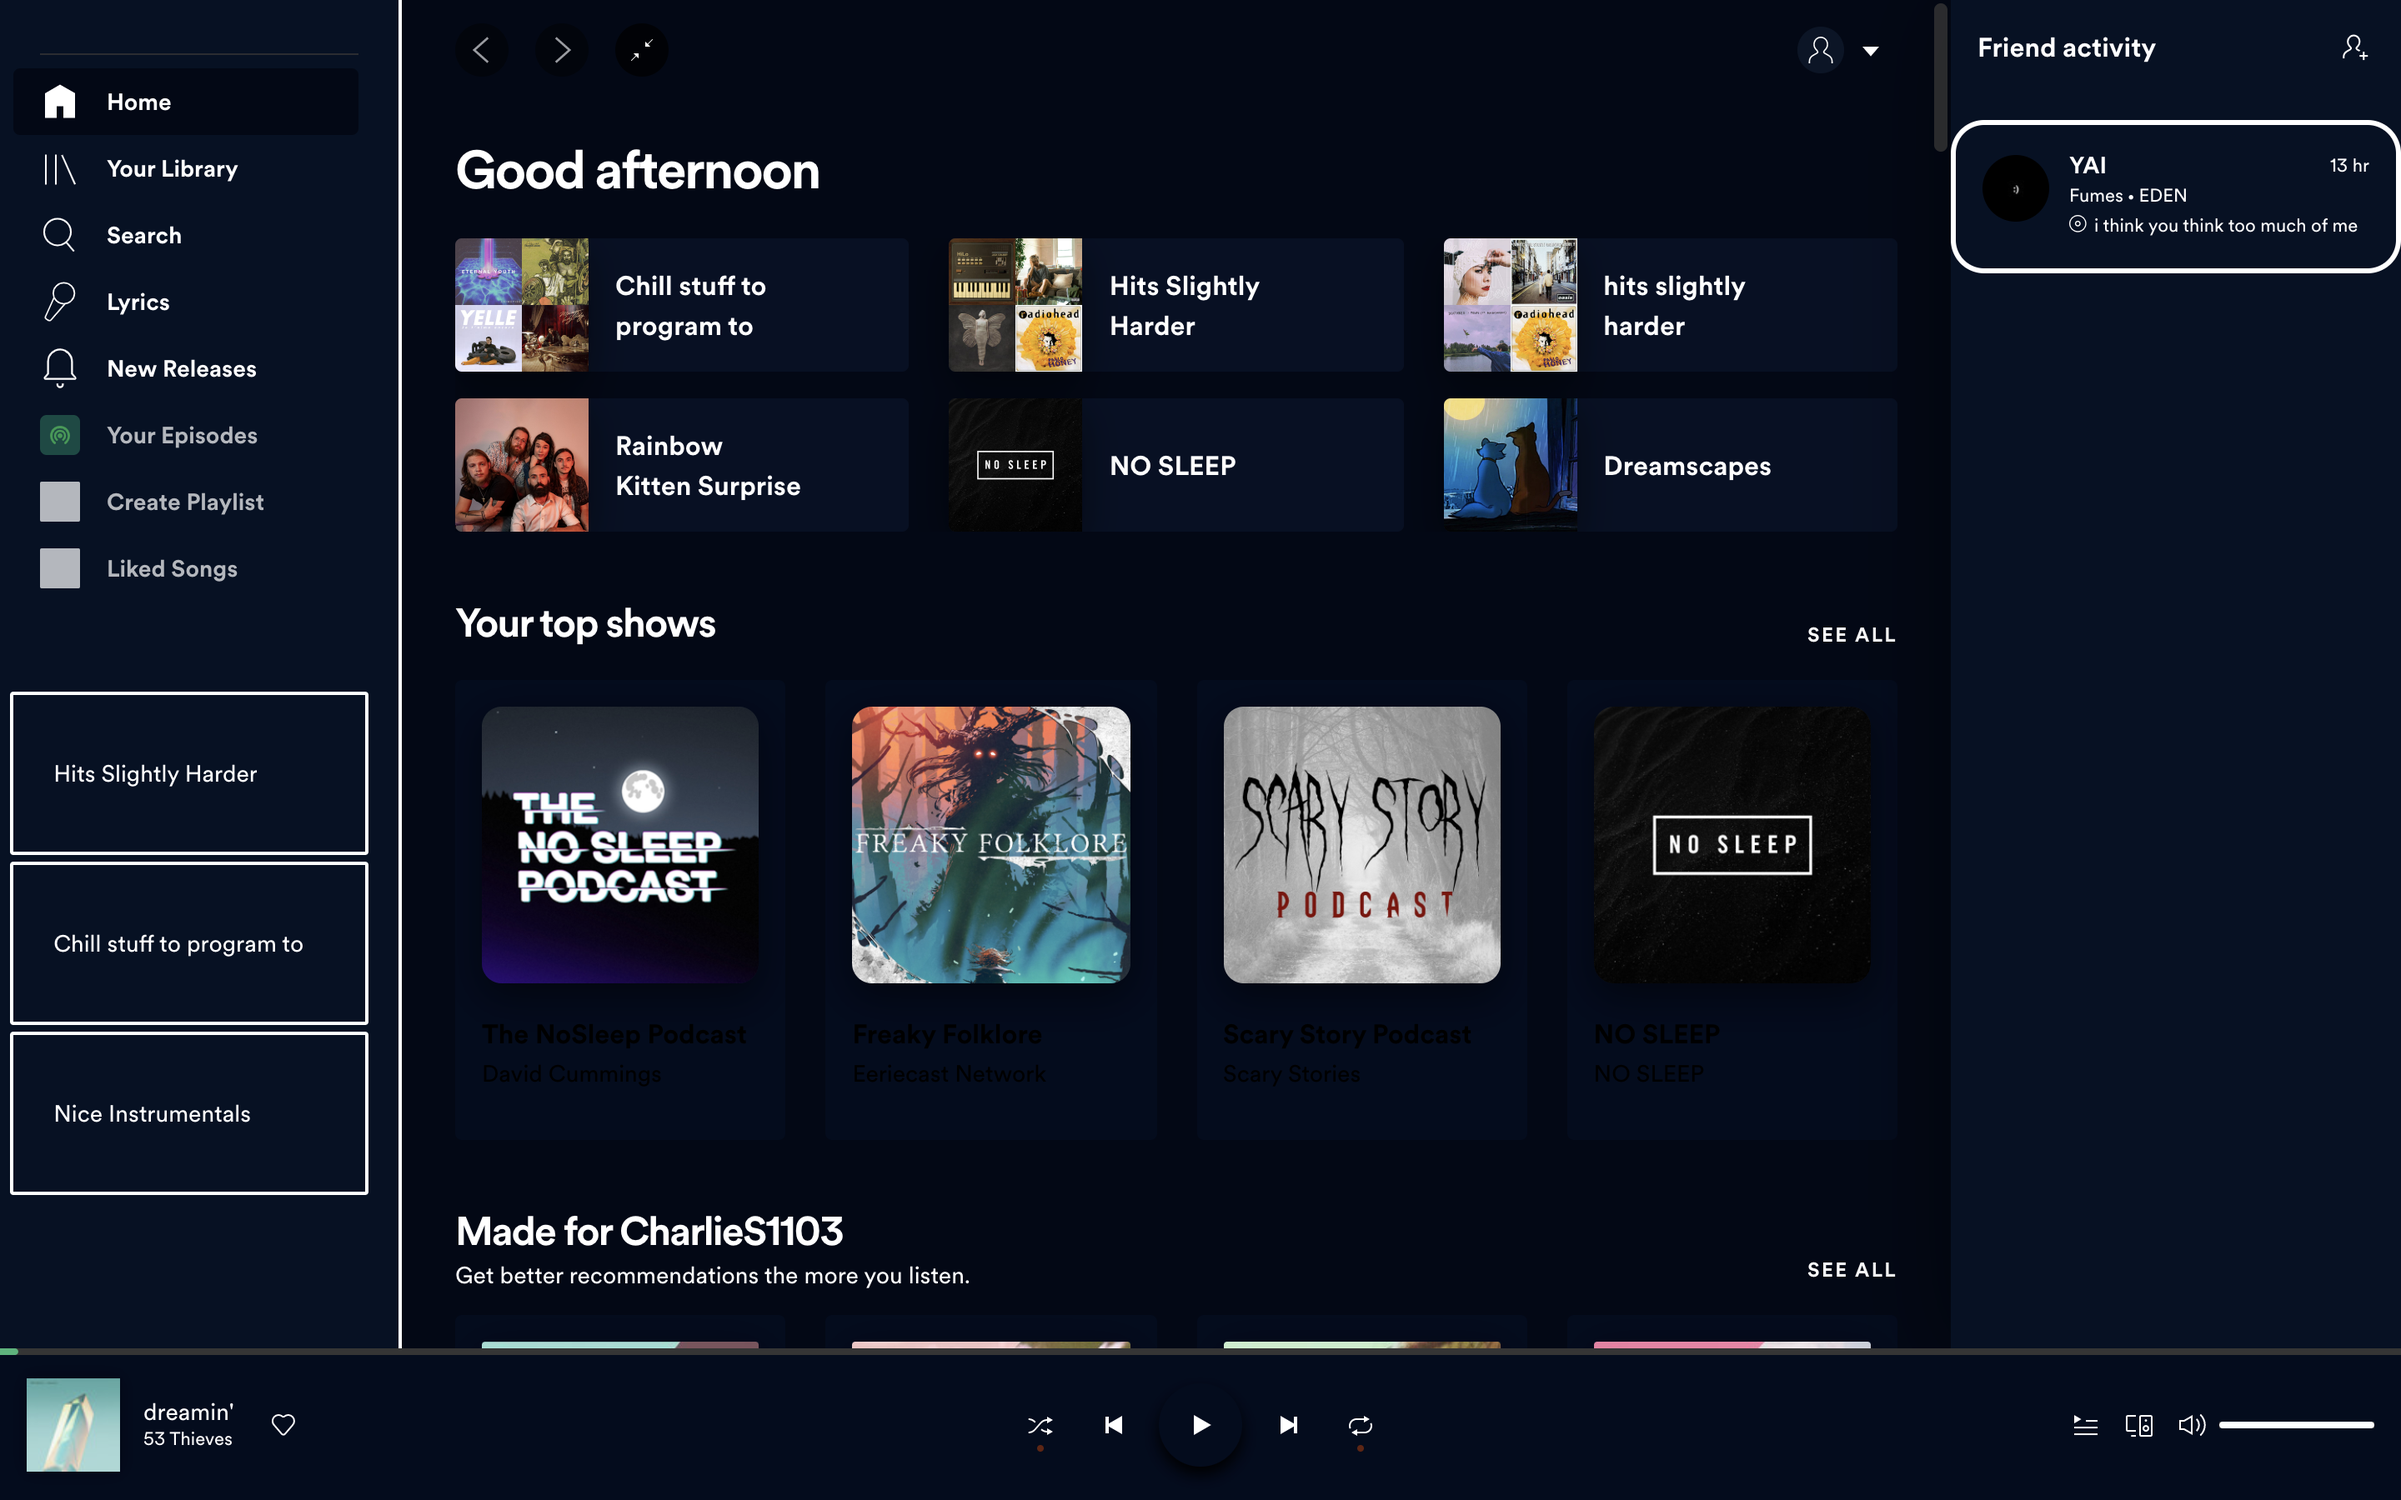
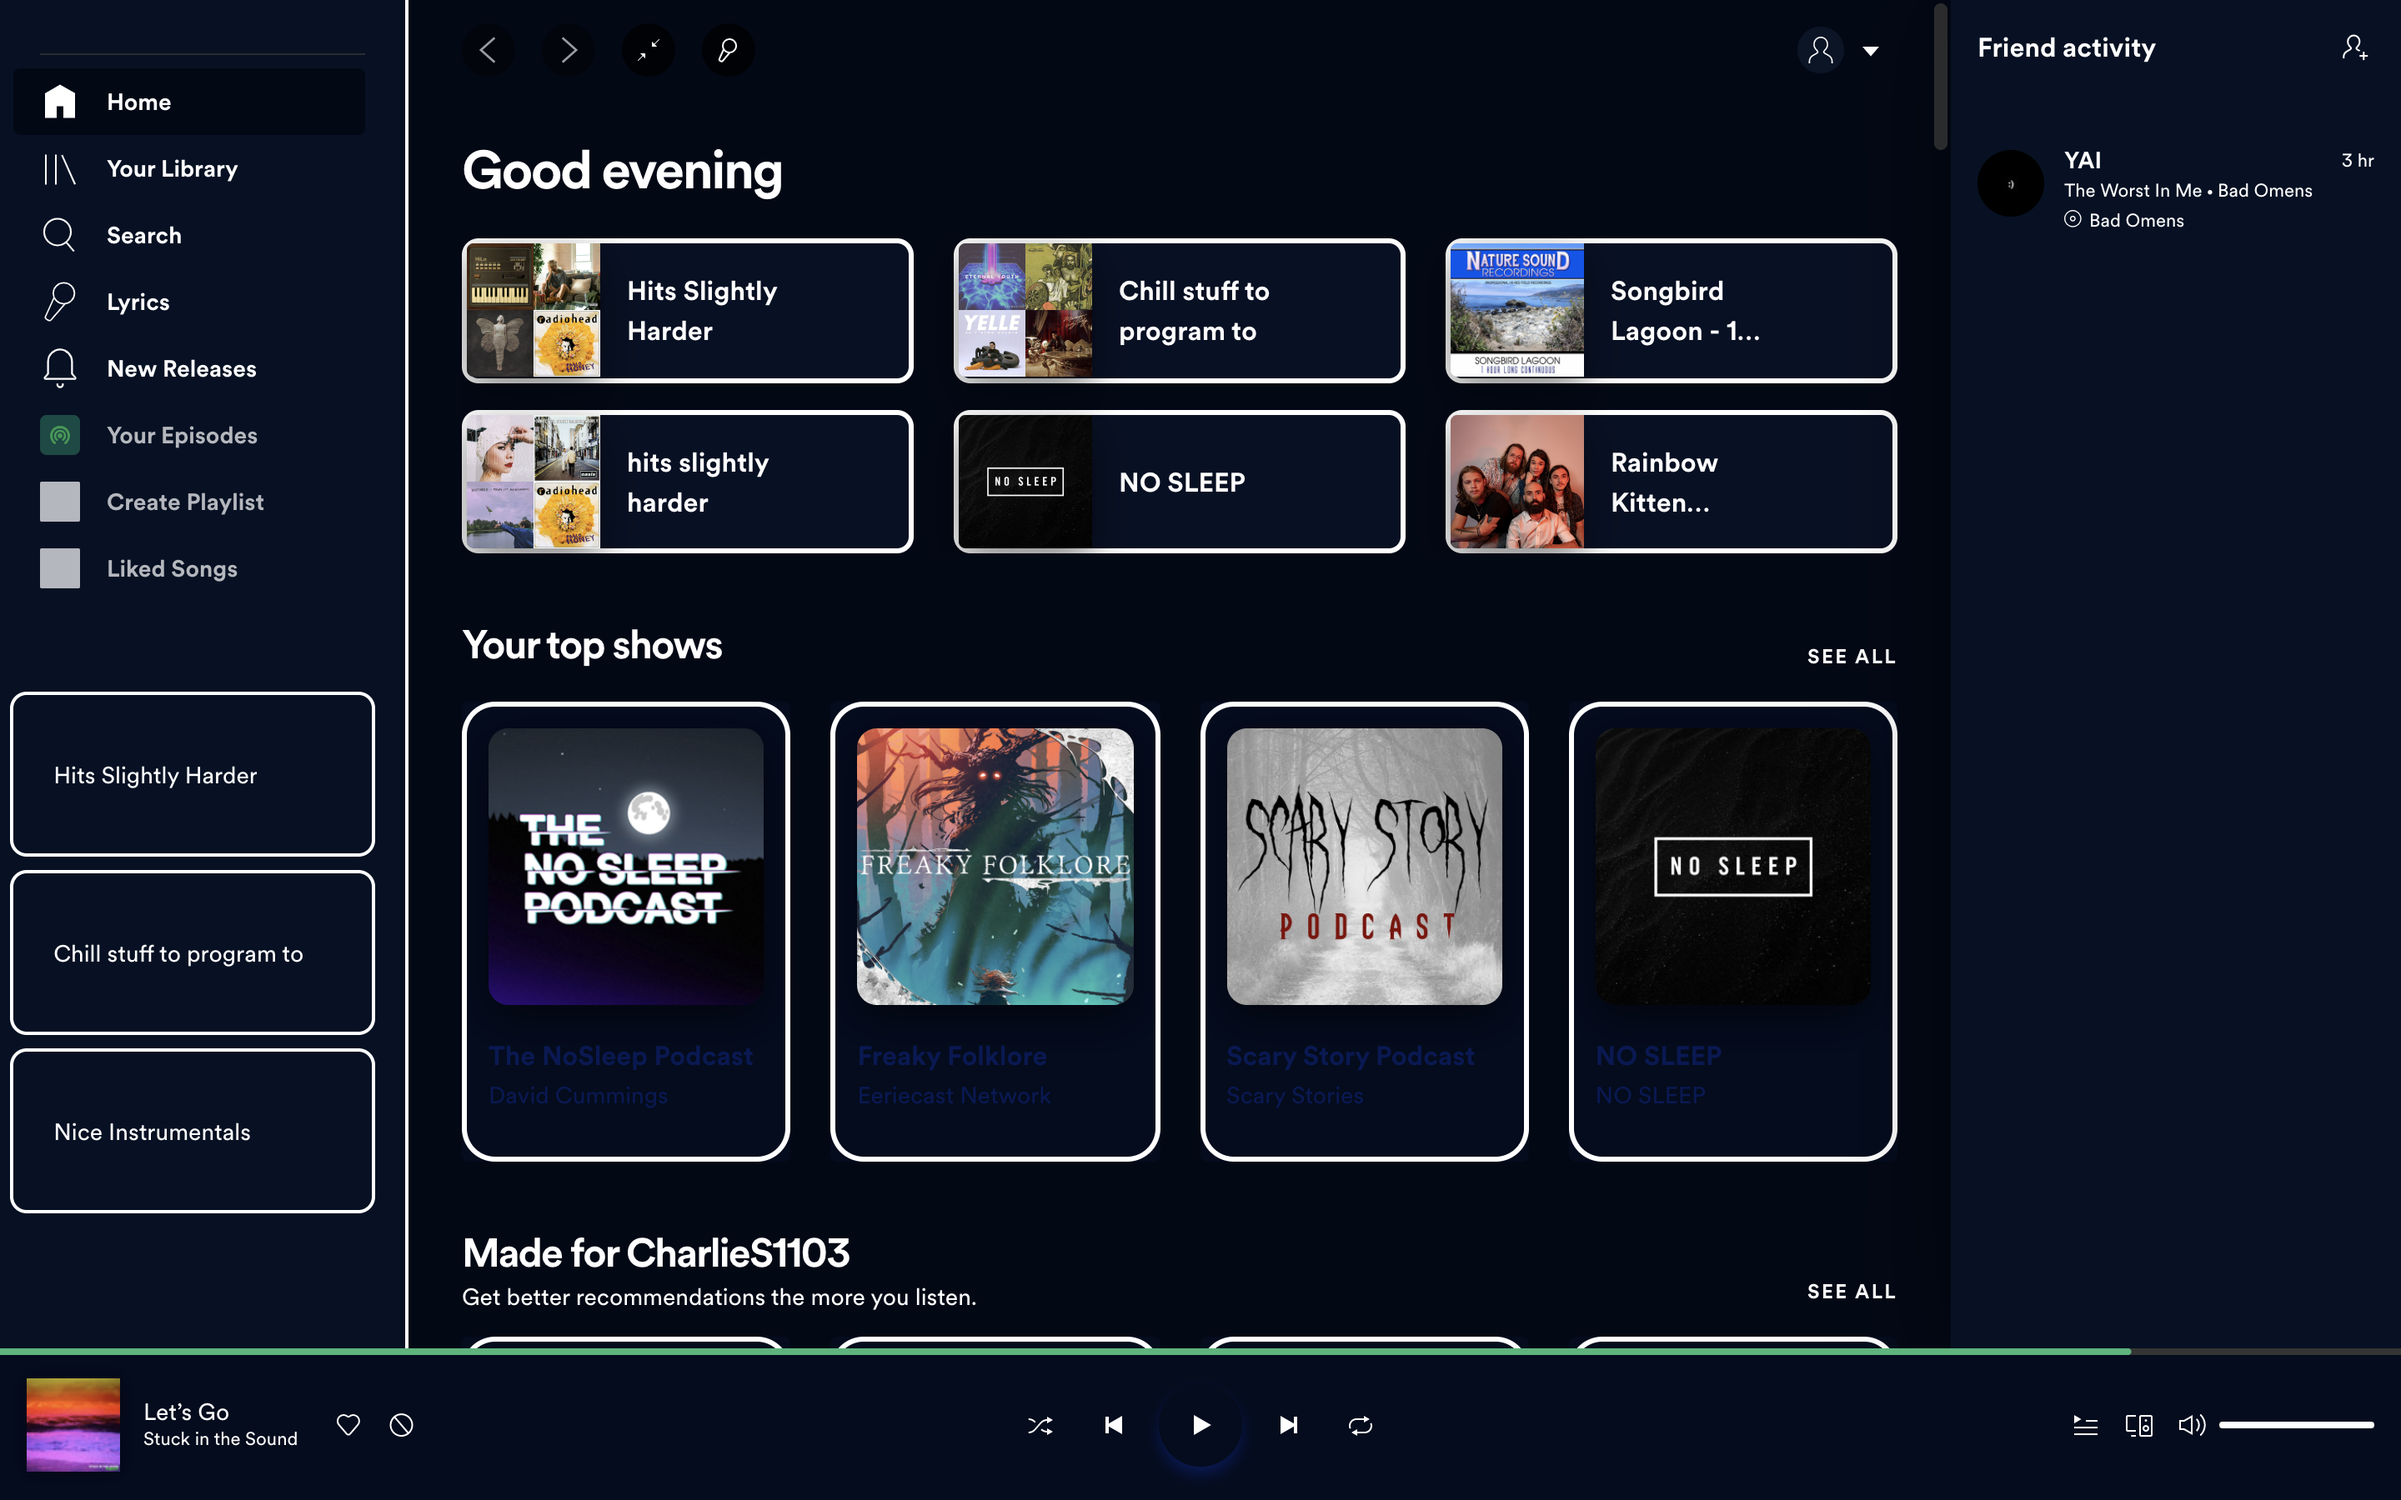
Update
Removed border around friends (i see what you mean now)
Added borders around other elements for coherency
Made playlist selection more spaced out
Changed Deep Color scheme to fix unreadable text
Uploaded images
Added assets folder
Changed playing icon to a circle with the ability to change color
Made borders more curved and appealing
Updated images
Updated readme.md

diff --git a/Dreary/user.css b/Dreary/user.css
@@ -1,3 +1,4 @@
+/* Dreary Theme*/
 .main-rootlist-rootlistDividerGradient {
     display: none;
     visibility: hidden !important;
@@ -57,7 +58,9 @@ input {
 }
 
 .main-trackList-playingIcon {
-    filter: brightness(0) saturate(100%) invert(11%) sepia(81%) saturate(4689%) hue-rotate(359deg) brightness(78%) contrast(115%);
[1 lines of base64/hex data omitted]
+  background: var(--spice-text);
+  content-visibility: hidden;
 }
 
 span.artist-artistVerifiedBadge-badge svg:nth-child(1) {
@@ -381,7 +384,8 @@ a.x-categoryCard-CategoryCard, a.x-heroCategoryCard-HeroCategoryCard {
     padding-bottom: 13%;
     box-sizing: border-box;
     position: relative;
-    border-radius: 2px;
+    margin-bottom: 8px;
+    border-radius: 10px;
     border: 2px solid var(--spice-text);
     display: flex;
     text-align: center;
@@ -410,17 +414,35 @@ a.x-categoryCard-CategoryCard, a.x-heroCategoryCard-HeroCategoryCard {
 svg[Attributes Style] {
     fill: var(--spice-subtext);
 }
+
 .main-rootlist-rootlistItemLink.main-rootlist-rootlistItemLinkActive, .main-rootlist-rootlistItemLink {
-    transition:  500ms;
+    transition: 500ms;
 }
-.main-rootlist-rootlistItemLink.main-rootlist-rootlistItemLinkActive, .main-rootlist-rootlistItemLink:focus{
+
+.main-rootlist-rootlistItemLink.main-rootlist-rootlistItemLinkActive, .main-rootlist-rootlistItemLink:focus {
     color: var(--spice-text);
 }
-.main-buddyFeed-friendActivity{
-    border:solid;
-    border-radius:20px;
-    border-color:var(--spice-text);
-}
-.main-collectionLinkButton-collectionLinkButton.main-collectionLinkButton-selected{
+
+.main-collectionLinkButton-collectionLinkButton.main-collectionLinkButton-selected {
     color: var(--spice-subbutton-text) !important;
+}
+
+.main-type-mesto {
+    color: var(--spice-subbutton-text);
+}
+.view-homeShortcutsGrid-shortcut {
+    background-color: rgba(var(--spice-rgb-selected-row), 0.6) !important;
+    border: solid 3px var(--spice-text);
+    border-radius: 10px;
+    padding-bottom: 80.7px;
+    transition: 500ms;
+}
+
+.main-card-card .main-card-cardLink {
+    border: solid 3px;
+    border-radius: 20px;
+    transition:500ms;
+}
+.view-homeShortcutsGrid-shortcut:hover,.main-card-card .main-card-cardLink:hover {
+    border-color:var(--spice-button);
 }

diff --git a/Dreary/README.md b/Dreary/README.md
@@ -17,6 +17,8 @@
 ### Lover
 ![Lover Screenshot](lover.png)
 
+### RainforestCafe
+![Rainforest Cafe Screenshot](rainforestcafe.png)
 
 ##Important
 Sidebar Config option must be enabled for theme to work properly, you can use it without, however some features may not be available.
